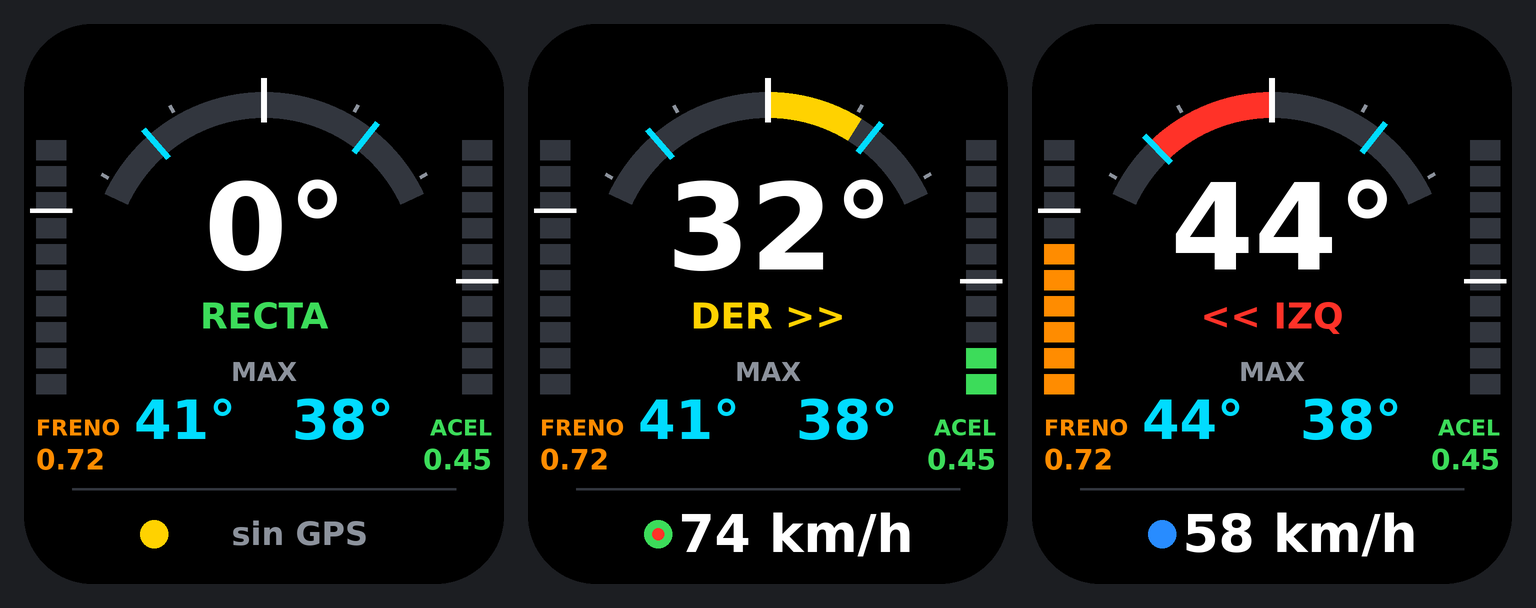
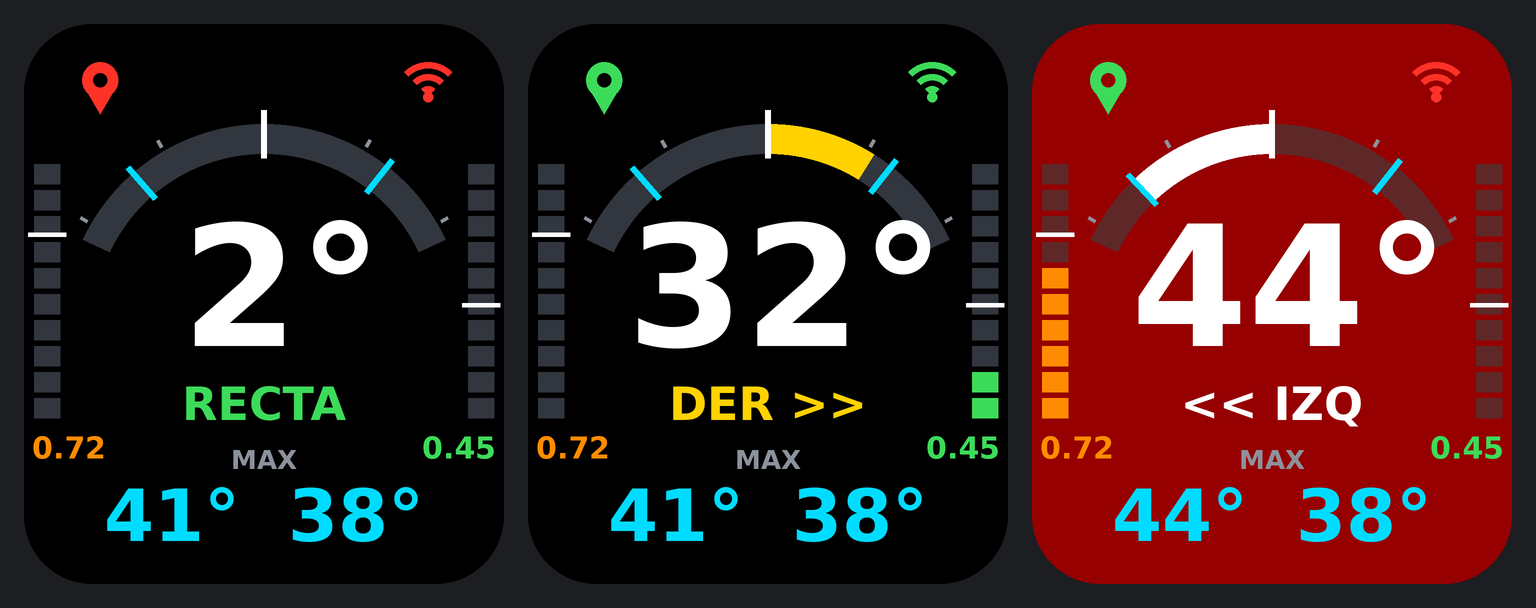
Propuesta de pantalla 1.69: sin velocidad, iconos de GPS y WiFi, aviso rojo a 40°
Claude-Session: https://claude.ai/code/session_01DoHUXaoJBwacrVjXvgwcFQ

diff --git a/herramientas/simular_pantalla_169.py b/herramientas/simular_pantalla_169.py
@@ -4,46 +4,56 @@ import math
 S=4; W,H=240,280
 F="/usr/share/fonts/truetype/dejavu/DejaVuSans-Bold.ttf"
 def f(n): return ImageFont.truetype(F,n*S)
-BG=(0,0,0);GR=(50,54,62);WH=(255,255,255);BL=(40,140,255);CY=(0,220,255);OR=(255,140,0);GN=(60,220,90);YE=(255,210,0);RD=(255,50,40);DG=(140,146,156)
-def screen(lean,mi,md,acc,ma,mf,kmh,gps):
+GR=(50,54,62);WH=(255,255,255);BL=(40,140,255);CY=(0,220,255);OR=(255,140,0);GN=(60,220,90);YE=(255,210,0);RD=(255,50,40);DG=(140,146,156)
+RECTA=4; ALARMA=40
+def screen(lean,mi,md,acc,ma,mf,gps,wifi,destello=False):
+    BG=(150,0,0) if destello else (0,0,0)          # por encima de 40 grados el fondo parpadea en rojo
+    GRF=(95,40,40) if destello else GR
     im=Image.new("RGB",(W*S,H*S),BG);d=ImageDraw.Draw(im)
     R=lambda x0,y0,x1,y1,c:d.rectangle([x0*S,y0*S,x1*S,y1*S],fill=c)
     T=lambda s,x,y,n,c,a="mm":d.text((x*S,y*S),s,font=f(n),fill=c,anchor=a)
-    cx,cy,r,th=120,122,88,13
+    # iconos de estado: verde fijo = hay; rojo parpadeando = no hay
+    def icono_gps(x,y,c):
+        d.ellipse([(x-9)*S,(y-11)*S,(x+9)*S,(y+7)*S],fill=c)
+        d.polygon([((x-7)*S,(y+3)*S),((x+7)*S,(y+3)*S),(x*S,(y+15)*S)],fill=c)
+        d.ellipse([(x-3.5)*S,(y-5.5)*S,(x+3.5)*S,(y+1.5)*S],fill=BG)
+    def icono_wifi(x,y,c):
+        for rr in (17,11,5):
+            d.arc([(x-rr)*S,(y-rr+8)*S,(x+rr)*S,(y+rr+8)*S],225,315,fill=c,width=int(3.4*S))
+        d.ellipse([(x-2.5)*S,(y+6)*S,(x+2.5)*S,(y+11)*S],fill=c)
+    icono_gps(38,30,GN if gps else RD); icono_wifi(202,28,GN if wifi else RD)
+    # arco
+    cx,cy,r,th=120,150,100,15
     box=[(cx-r)*S,(cy-r)*S,(cx+r)*S,(cy+r)*S]
-    d.arc(box,205,335,fill=GR,width=th*S)
-    al=abs(lean);col=BL if al<25 else (YE if al<40 else RD)
+    d.arc(box,205,335,fill=GRF,width=th*S)
+    al=abs(lean);col=BL if al<25 else (YE if al<ALARMA else (WH if destello else RD))
     a0,a1=sorted([270,270+max(-65,min(65,lean))])
-    if al>0.5: d.arc(box,a0,a1,fill=col,width=th*S)
+    if al>=RECTA: d.arc(box,a0,a1,fill=col,width=th*S)
     def tick(deg,c,l0,l1,w):
         a=math.radians(270+deg)
         d.line([((cx+(r-l0)*math.cos(a))*S,(cy+(r-l0)*math.sin(a))*S),((cx+(r-l1)*math.cos(a))*S,(cy+(r-l1)*math.sin(a))*S)],fill=c,width=w*S)
     for t in(-60,-30,30,60): tick(t,DG,-6,-2,2)
     tick(0,WH,-7,th+2,3)
     tick(-mi,CY,-4,th+2,3); tick(md,CY,-4,th+2,3)
-    T(f"{round(al)}°",cx+6,102,60,WH)
-    T("<< IZQ" if lean<-1.5 else ("DER >>" if lean>1.5 else "RECTA"),cx,146,18,col if al>1.5 else GN)
-    T("MAX",cx,174,13,DG)
-    T(f"{round(mi)}°",cx-14,198,27,CY,"rm"); T(f"{round(md)}°",cx+14,198,27,CY,"lm")
+    # numero lo mas grande posible
+    T(f"{round(al)}°",cx+9,132,84,WH)
+    recta=al<RECTA
+    T("RECTA" if recta else ("<< IZQ" if lean<0 else "DER >>"),cx,190,23,GN if recta else col)
+    # maximos
+    T("MAX",cx,218,13,DG)
+    T(f"{round(mi)}°",cx-12,246,36,CY,"rm"); T(f"{round(md)}°",cx+12,246,36,CY,"lm")
+    # barras de frenada y aceleracion
     def bar(x,val,mx,c):
         for i in range(10):
-            y=58+i*13; R(x,y,x+15,y+10,c if round(val*10)>(9-i) else GR)
-        ym=58+130-min(mx,1)*130; R(x-3,ym-2,x+18,ym,WH)
-    bar(6,max(0,-acc),mf,OR); bar(219,max(0,acc),ma,GN)
-    T("FRENO",6,202,11,OR,"lm"); T("ACEL",234,202,11,GN,"rm")
-    T(f"{mf:.2f}",6,218,14,OR,"lm"); T(f"{ma:.2f}",234,218,14,GN,"rm")
-    # linea inferior: estado del GPS (sustituye al LED) y velocidad
-    R(24,232,216,233,GR)
-    cg={'no':RD,'busca':YE,'ok':GN,'rec':GN,'pausa':BL}[gps]
-    d.ellipse([58*S,248*S,72*S,262*S],fill=cg)
-    if gps=='rec': d.ellipse([62*S,252*S,68*S,258*S],fill=RD)
-    if gps in('ok','rec','pausa'): T(f"{kmh} km/h",cx+14,255,26,WH)
-    else: T("sin GPS" if gps=='busca' else "GPS no responde",cx+18,255,16,DG)
-    # esquinas redondeadas del cristal
+            y=70+i*13; R(x,y,x+13,y+10,c if round(val*10)>(9-i) else GRF)
+        ym=70+130-min(mx,1)*130; R(x-3,ym-2,x+16,ym,WH)
+    bar(5,max(0,-acc),mf,OR); bar(222,max(0,acc),ma,GN)
+    T(f"{mf:.2f}",4,212,15,OR,"lm"); T(f"{ma:.2f}",236,212,15,GN,"rm")
     m=Image.new("L",(W*S,H*S),0); ImageDraw.Draw(m).rounded_rectangle([0,0,W*S-1,H*S-1],radius=34*S,fill=255)
     out=Image.new("RGB",(W*S,H*S),(28,30,34)); out.paste(im,(0,0),m)
     return out.resize((W*2,H*2),Image.LANCZOS)
-cs=[screen(0,41,38,0.0,0.45,0.72,0,'busca'),screen(32,41,38,0.21,0.45,0.72,74,'rec'),screen(-44,44,38,-0.55,0.45,0.72,58,'pausa')]
+cs=[screen(2,41,38,0.0,0.45,0.72,False,False),screen(32,41,38,0.21,0.45,0.72,True,True),
+    screen(-44,44,38,-0.55,0.45,0.72,True,False,destello=True)]
 out=Image.new("RGB",(3*W*2+4*24,H*2+48),(28,30,34))
 for i,c in enumerate(cs): out.paste(c,(24+i*(W*2+24),24))
 out.save("docs/img/pantalla_169.png")
